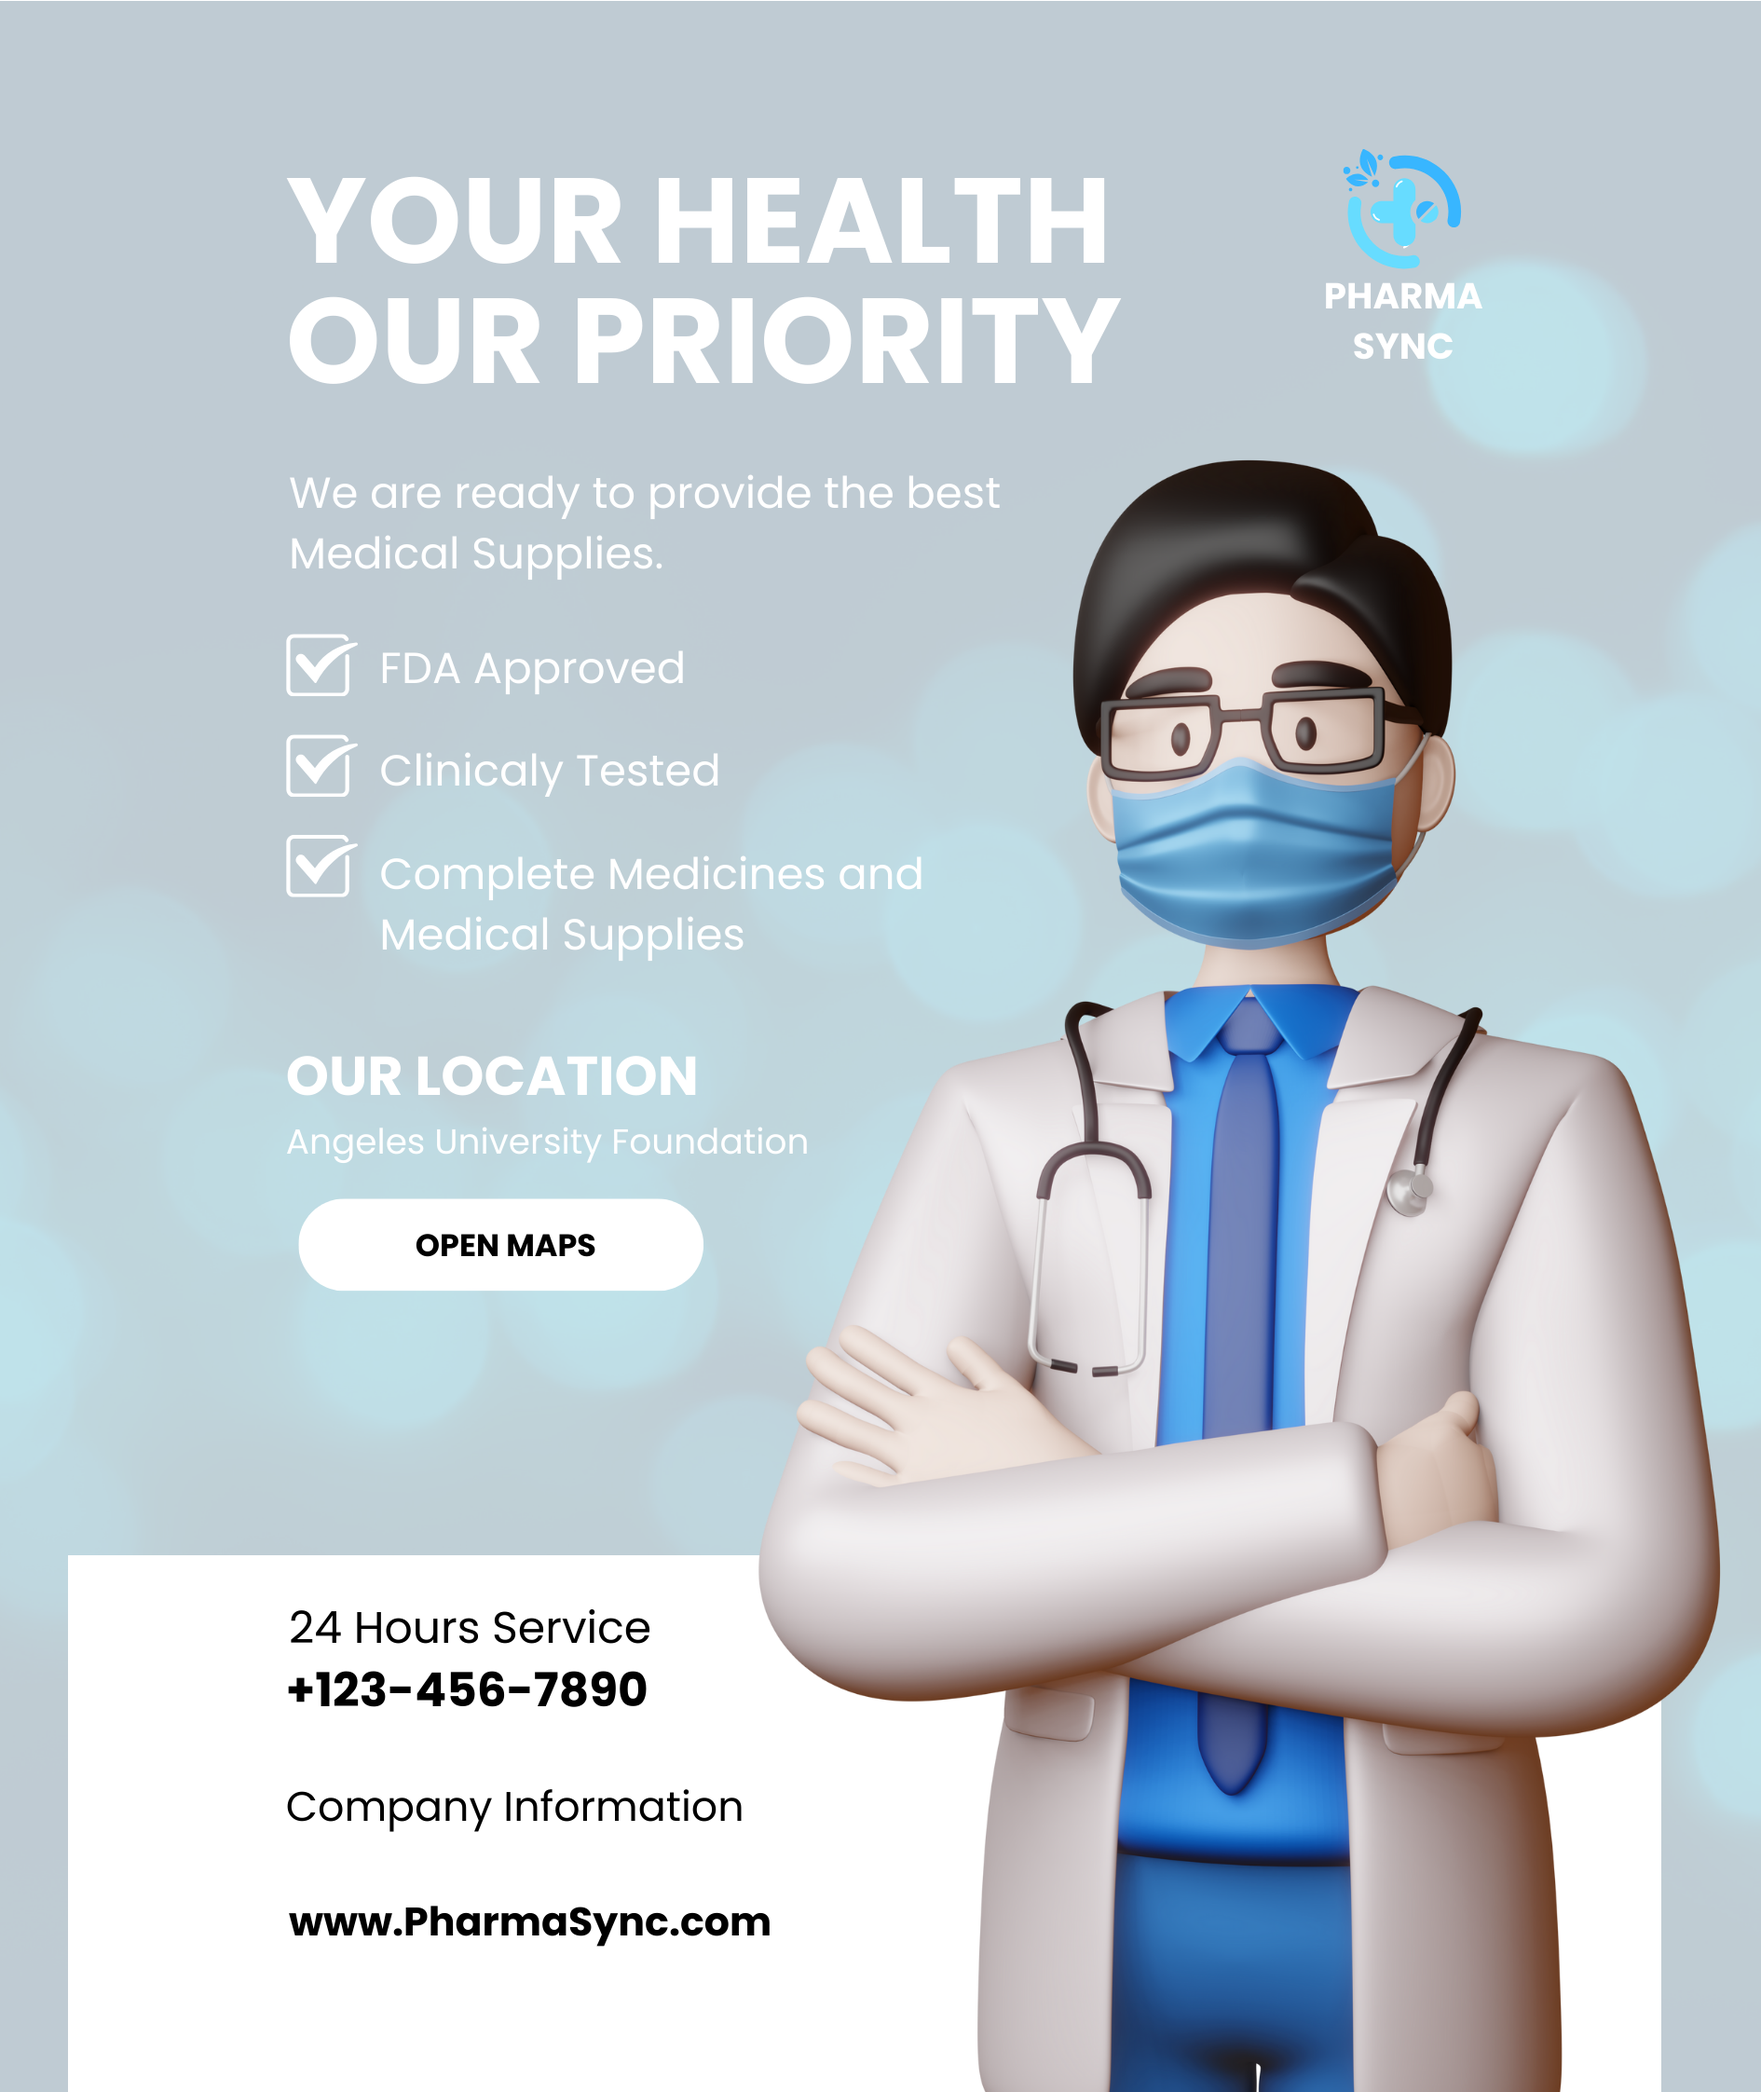
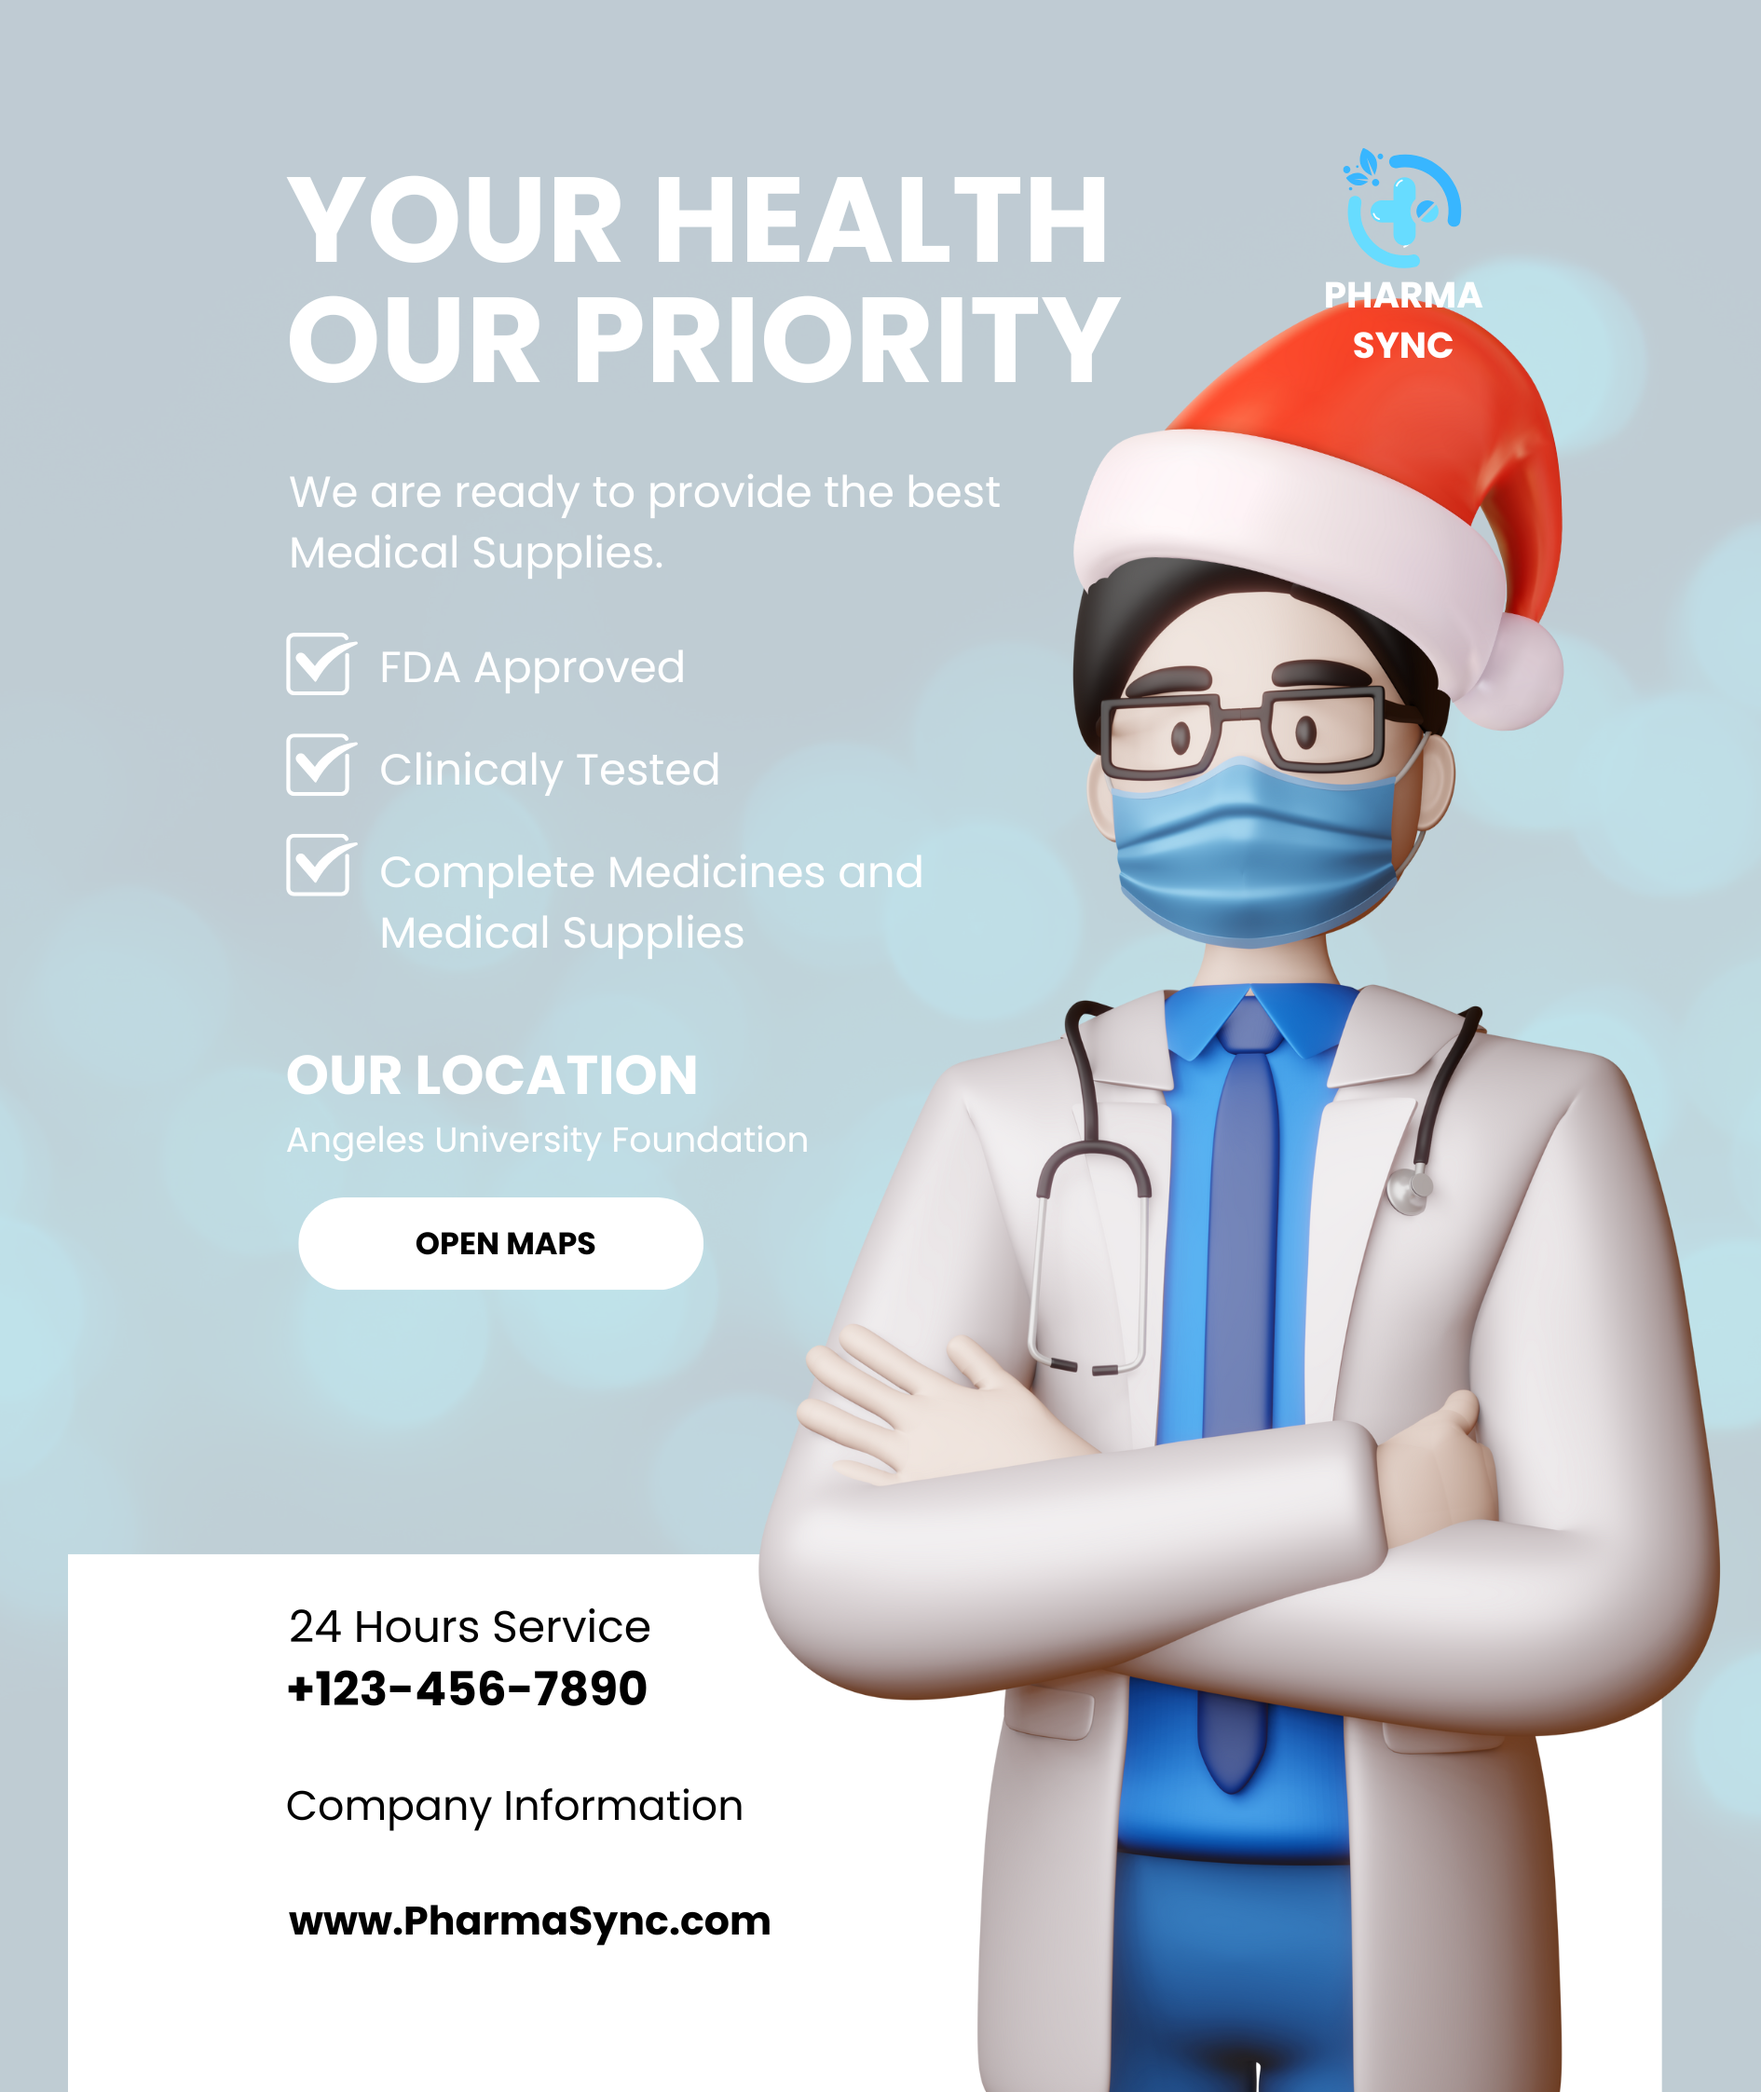
- Added santa hat easter egg for slide 3 - Added loadFlatpickrTheme in toggleTheme in theme JS

diff --git a/public/assets/js/theme.js b/public/assets/js/theme.js
@@ -16,7 +16,7 @@ function toggleTheme() {
         htmlRoot.classList.add('light');
         localStorage.setItem('theme', 'light');
     }
-
+    loadFlatpickrTheme();
     // Re-enable transitions after the next frame
     setTimeout(() => {
         htmlRoot.classList.remove('disable-transitions');
@@ -44,6 +44,20 @@ function applySavedTheme() {
         svg.classList.replace('text-violet-500', 'text-amber-500');
         svg.innerHTML = `<path d="M10 2a1 1 0 011 1v1a1 1 0 11-2 0V3a1 1 0 011-1zm4 8a4 4 0 11-8 0 4 4 0 018 0zm-.464 4.95l.707.707a1 1 0 001.414-1.414l-.707-.707a1 1 0 00-1.414 1.414zm2.12-10.607a1 1 0 010 1.414l-.706.707a1 1 0 11-1.414-1.414l.707-.707a1 1 0 011.414 0zM17 11a1 1 0 100-2h-1a1 1 0 100 2h1zm-7 4a1 1 0 011 1v1a1 1 0 11-2 0v-1a1 1 0 011-1zM5.05 6.464A1 1 0 106.465 5.05l-.708-.707a1 1 0 00-1.414 1.414l.707.707zm1.414 8.486l-.707.707a1 1 0 01-1.414-1.414l.707-.707a1 1 0 011.414 1.414zM4 11a1 1 0 100-2H3a1 1 0 000 2h1z" fill-rule="evenodd" clip-rule="evenodd"></path>`;
     }
+}
+
+function loadFlatpickrTheme() {
+    const isDarkMode = document.documentElement.classList.contains('dark');
+    const themeStylesheet = document.createElement('link');
+    themeStylesheet.rel = 'stylesheet';
+    
+    if (isDarkMode) {
+        themeStylesheet.href = 'https://npmcdn.com/flatpickr/dist/themes/dark.css';
+    } else {
+        themeStylesheet.href = 'https://cdn.jsdelivr.net/npm/flatpickr/dist/flatpickr.min.css';
+    }
+
+    document.head.appendChild(themeStylesheet);
 }
 
 // Apply the saved theme on page load
